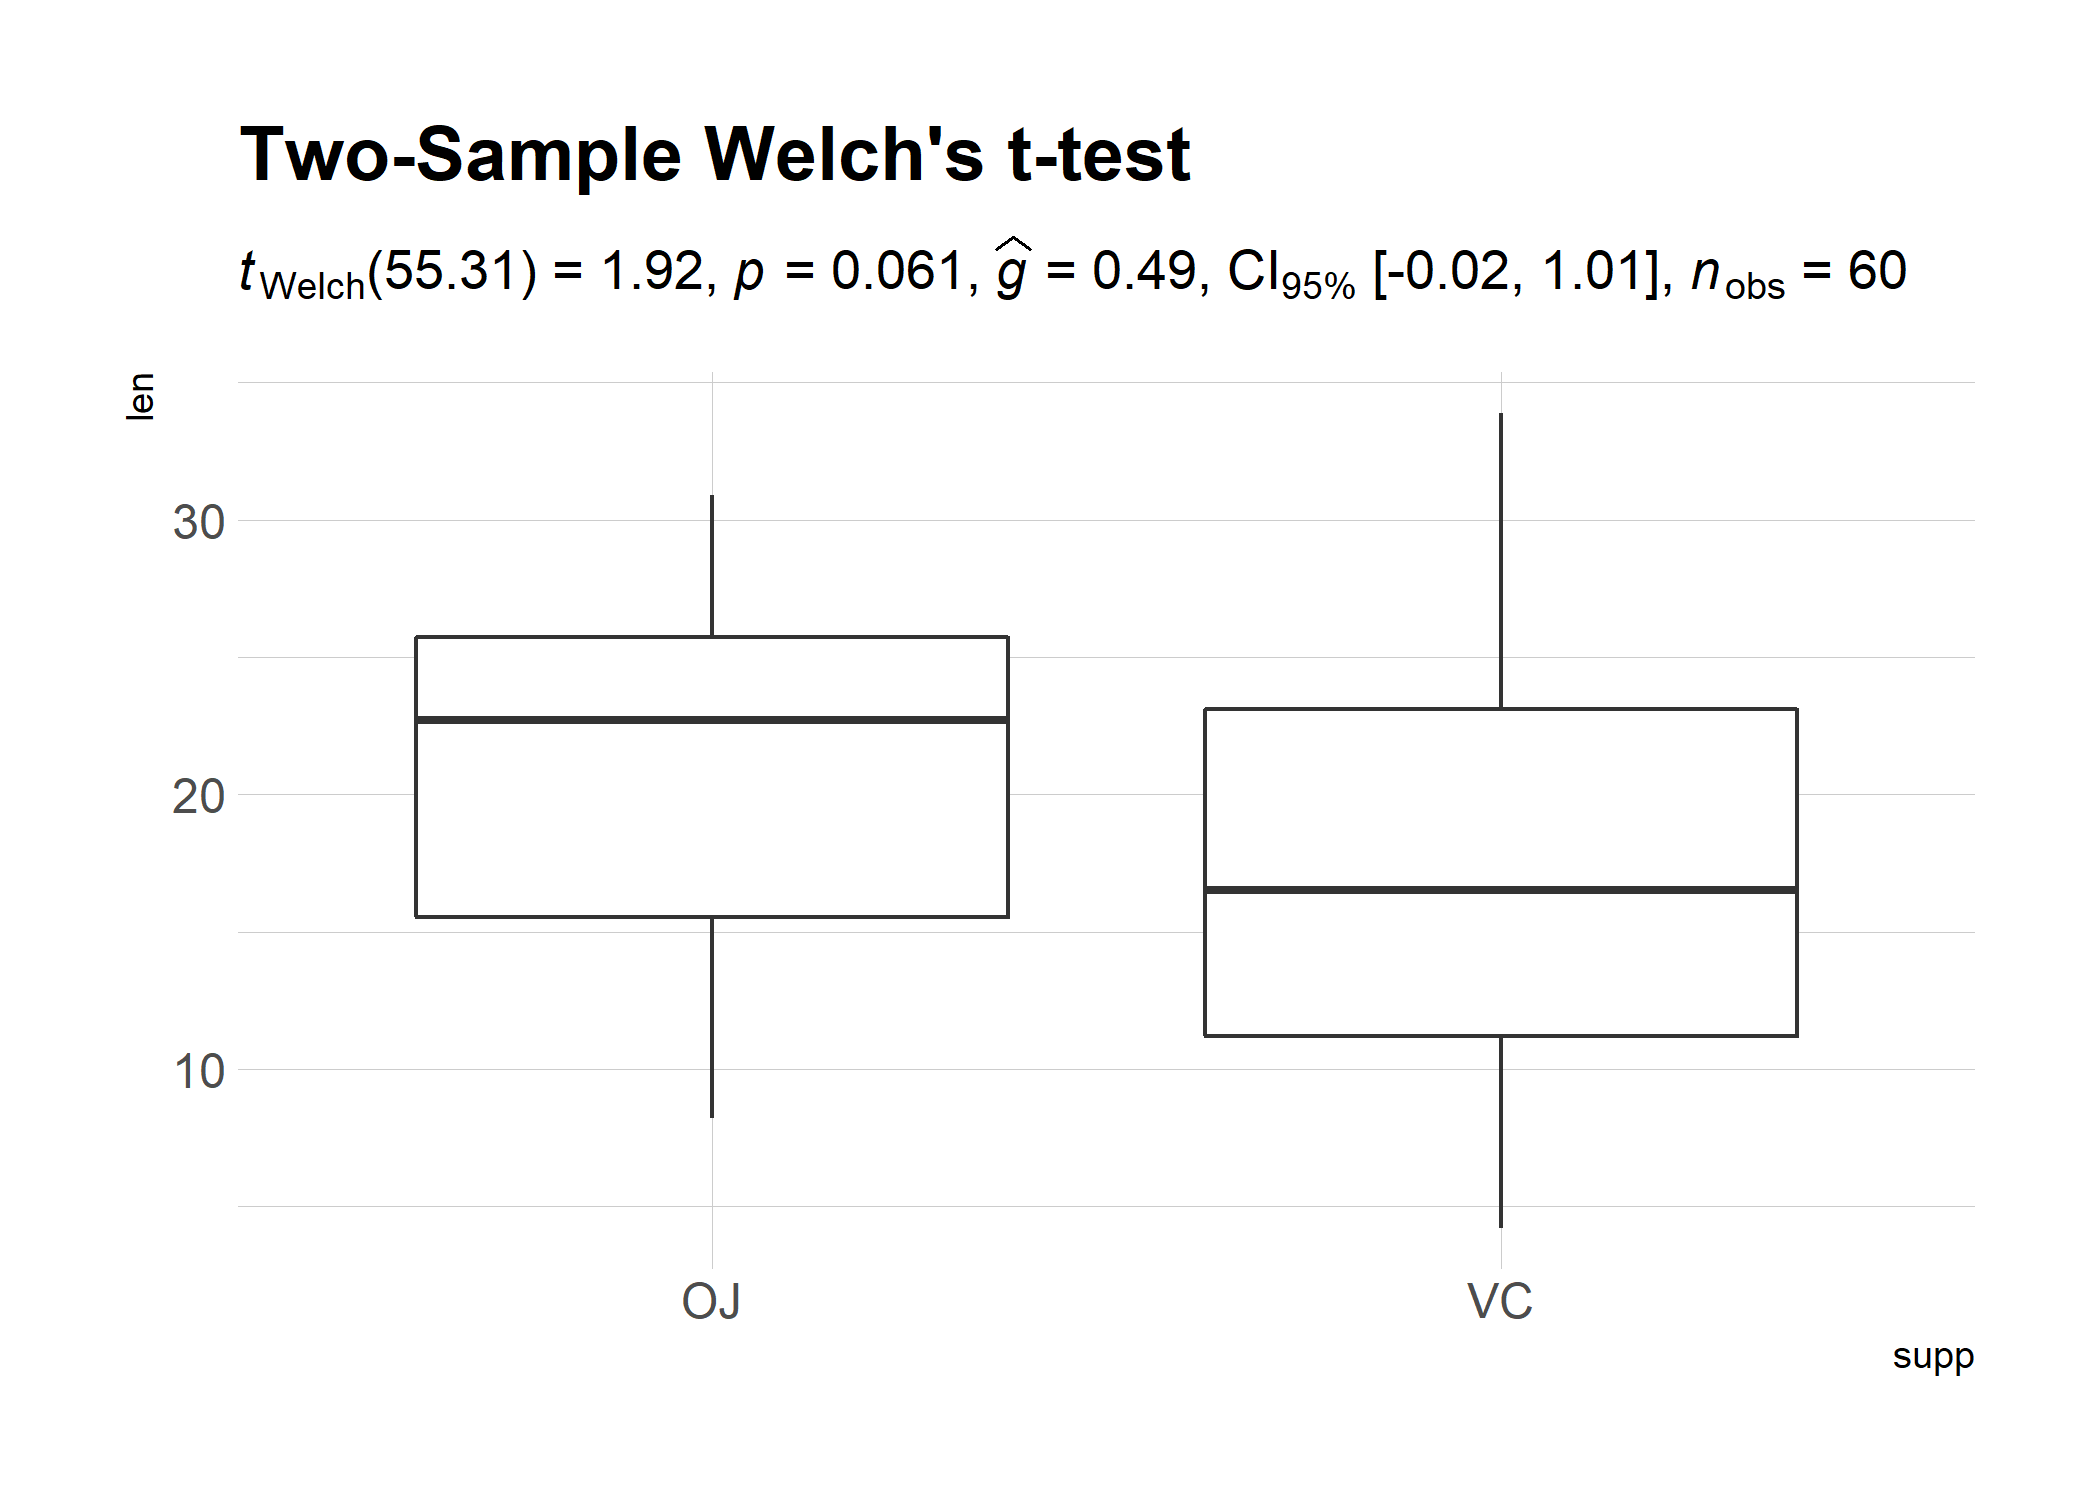
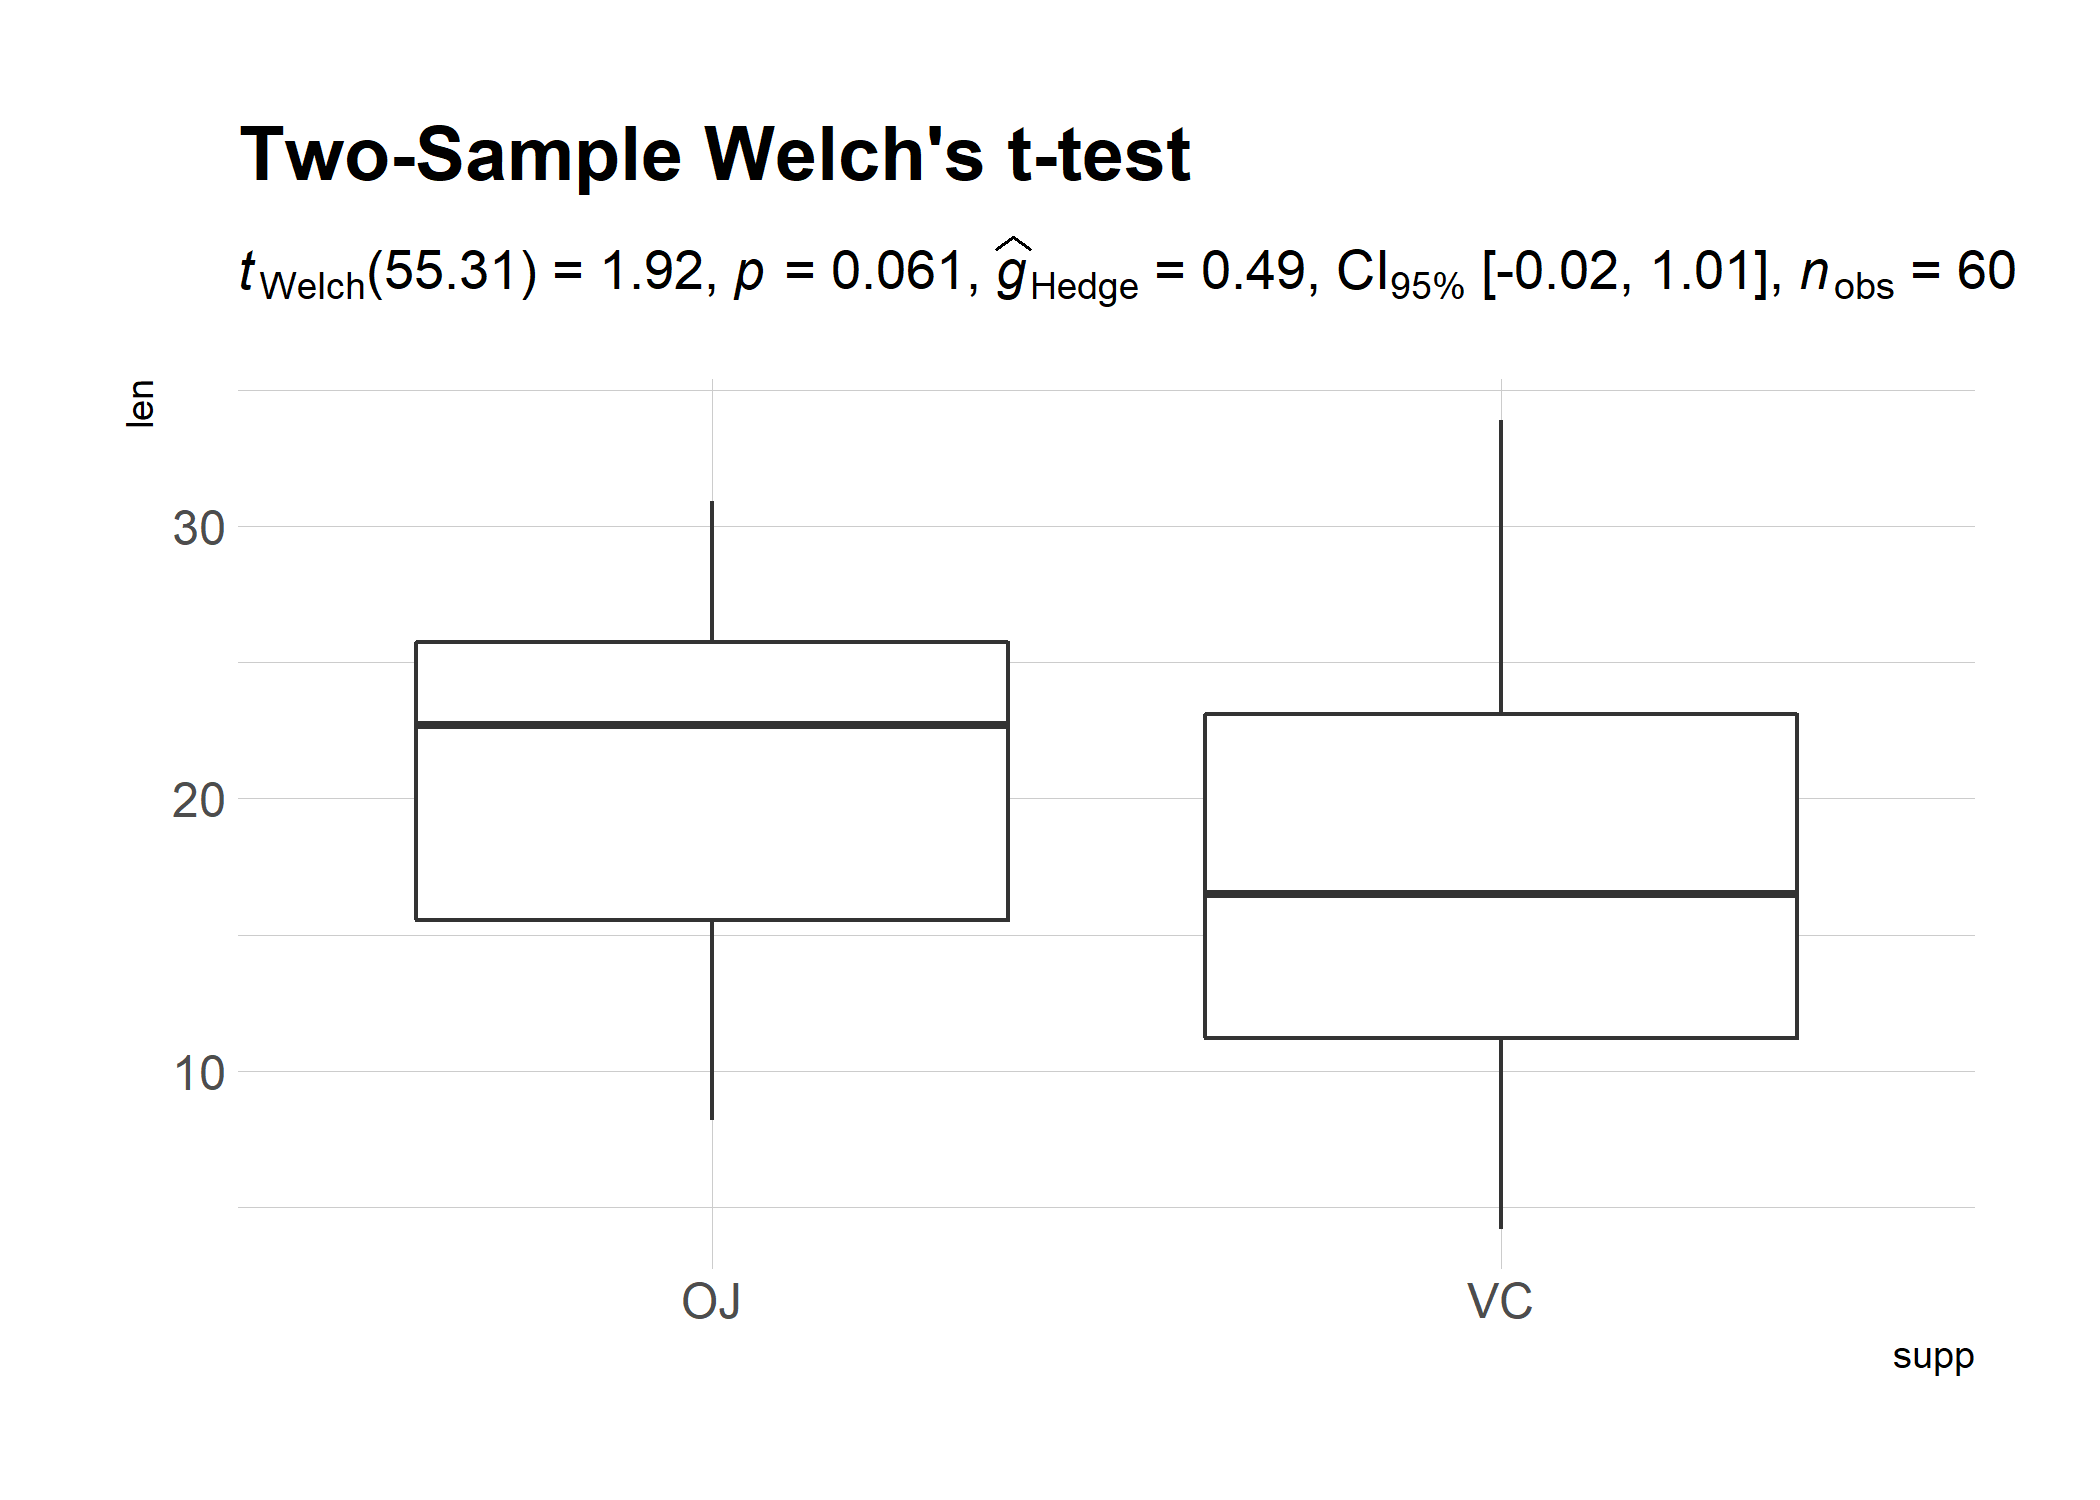
minor cleanup

diff --git a/docs/reference/expr_t_parametric.html b/docs/reference/expr_t_parametric.html
@@ -261,7 +261,7 @@ non-central Student-<em>t</em> distributions.</p>
   <span class='kw'>x</span> <span class='kw'>=</span> <span class='no'>vore</span>,
   <span class='kw'>y</span> <span class='kw'>=</span> <span class='no'>sleep_rem</span>
 )</div><div class='output co'>#&gt; paste(NULL, italic("t")["Welch"], "(", "10.89", ") = ", "1.49", 
-#&gt;     ", ", italic("p"), " = ", "0.164", ", ", widehat(italic("g")), 
+#&gt;     ", ", italic("p"), " = ", "0.164", ", ", widehat(italic("g"))["Hedge"], 
 #&gt;     " = ", "0.61", ", CI"["95%"], " [", "-0.18", ", ", "1.20", 
 #&gt;     "]", ", ", italic("n")["obs"], " = ", 34L)</div><div class='input'>
 <span class='co'># changing defaults (getting expression as output)</span>
@@ -272,7 +272,7 @@ non-central Student-<em>t</em> distributions.</p>
   <span class='kw'>var.equal</span> <span class='kw'>=</span> <span class='fl'>TRUE</span>,
   <span class='kw'>effsize.type</span> <span class='kw'>=</span> <span class='st'>"d"</span>
 )</div><div class='output co'>#&gt; paste(NULL, italic("t")["Student"], "(", "32", ") = ", "1.95", 
-#&gt;     ", ", italic("p"), " = ", "0.060", ", ", widehat(italic("d")), 
+#&gt;     ", ", italic("p"), " = ", "0.060", ", ", widehat(italic("d"))["Cohen"], 
 #&gt;     " = ", "0.73", ", CI"["95%"], " [", "-0.03", ", ", "1.40", 
 #&gt;     "]", ", ", italic("n")["obs"], " = ", 34L)</div><div class='input'># }
 </div></pre>

diff --git a/docs/index.html b/docs/index.html
@@ -133,7 +133,7 @@
 <td><a href="https://cran.r-project.org/"><img src="https://img.shields.io/badge/R%3E%3D-3.5.0-6666ff.svg" alt="minimal R version"></a></td>
 <td><a href="https://www.tidyverse.org/lifecycle/"><img src="https://img.shields.io/badge/lifecycle-maturing-blue.svg" alt="lifecycle"></a></td>
 <td><a href="https://CRAN.R-project.org/package=statsExpressions"><img src="https://cranlogs.r-pkg.org/badges/last-month/statsExpressions?color=blue" alt="Monthly downloads badge"></a></td>
-<td><a href="https://github.com/IndrajeetPatil/statsExpressions/issues"><img src="https://img.shields.io/badge/issues-8-red.svg" alt="Github Issues"></a></td>
+<td><a href="https://github.com/IndrajeetPatil/statsExpressions/issues"><img src="https://img.shields.io/badge/issues-9-red.svg" alt="Github Issues"></a></td>
 <td><a href="https://CRAN.R-project.org/package=statsExpressions/vignettes/"><img src="https://img.shields.io/badge/vignettes-0.3.1-orange.svg?colorB=FF5722" alt="vignettes"></a></td>
 </tr>
 <tr class="even">

diff --git a/docs/reference/expr_t_onesample.html b/docs/reference/expr_t_onesample.html
@@ -270,7 +270,7 @@ argument.</p>
   <span class='kw'>test.value</span> <span class='kw'>=</span> <span class='fl'>0.275</span>,
   <span class='kw'>type</span> <span class='kw'>=</span> <span class='st'>"parametric"</span>
 )</div><div class='output co'>#&gt; paste(NULL, italic("t")["Student"], "(", "55", ") = ", "0.05", 
-#&gt;     ", ", italic("p"), " = ", "0.960", ", ", widehat(italic("g")), 
+#&gt;     ", ", italic("p"), " = ", "0.960", ", ", widehat(italic("g"))["Hedge"], 
 #&gt;     " = ", "0.01", ", CI"["95%"], " [", "-0.25", ", ", "0.27", 
 #&gt;     "]", ", ", italic("n")["obs"], " = ", 56L)</div><div class='input'>
 <span class='co'># ----------------------- non-parametric -----------------------------------</span>

diff --git a/README.md b/README.md
@@ -7,7 +7,7 @@
 | ------------------------------------------------------------------------------------------------------------------------------------------------------------------------- | ------------------------------------------------------------------------------------------------------------------------------------------------------------------------------------------------------ | ---------------------------------------------------------------------------------------------------------------------------------------------------------------------------------- | ------------------------------------------------------------------------------------------------------------------------------------------------------------------------ | ------------------------------------------------------------------------------------------------------------------------------------------------------------------------- |
 | [![CRAN\_Release\_Badge](http://www.r-pkg.org/badges/version-ago/statsExpressions)](https://CRAN.R-project.org/package=statsExpressions)                                  | [![Build Status](https://travis-ci.org/IndrajeetPatil/statsExpressions.svg?branch=master)](https://travis-ci.org/IndrajeetPatil/statsExpressions)                                                      | [![Daily downloads badge](https://cranlogs.r-pkg.org/badges/last-day/statsExpressions?color=blue)](https://CRAN.R-project.org/package=statsExpressions)                            | [![GitHub version](https://img.shields.io/badge/GitHub-0.4.0.9000-orange.svg?style=flat-square)](https://github.com/IndrajeetPatil/statsExpressions/)                    | [![Website](https://img.shields.io/badge/website-statsExpressions-orange.svg?colorB=E91E63)](https://indrajeetpatil.github.io/statsExpressions/)                          |
 | [![CRAN Checks](https://cranchecks.info/badges/summary/statsExpressions)](https://cran.r-project.org/web/checks/check_results_statsExpressions.html)                      | [![AppVeyor Build Status](https://ci.appveyor.com/api/projects/status/github/IndrajeetPatil/statsExpressions?branch=master&svg=true)](https://ci.appveyor.com/project/IndrajeetPatil/statsExpressions) | [![Weekly downloads badge](https://cranlogs.r-pkg.org/badges/last-week/statsExpressions?color=blue)](https://CRAN.R-project.org/package=statsExpressions)                          | [![Forks](https://img.shields.io/badge/forks-4-blue.svg)](https://github.com/IndrajeetPatil/statsExpressions/)                                                           | [![Features](https://img.shields.io/badge/features-statsExpressions-orange.svg?colorB=2196F3)](https://indrajeetpatil.github.io/statsExpressions/reference/index.html)    |
-| [![minimal R version](https://img.shields.io/badge/R%3E%3D-3.5.0-6666ff.svg)](https://cran.r-project.org/)                                                                | [![lifecycle](https://img.shields.io/badge/lifecycle-maturing-blue.svg)](https://www.tidyverse.org/lifecycle/)                                                                                         | [![Monthly downloads badge](https://cranlogs.r-pkg.org/badges/last-month/statsExpressions?color=blue)](https://CRAN.R-project.org/package=statsExpressions)                        | [![Github Issues](https://img.shields.io/badge/issues-8-red.svg)](https://github.com/IndrajeetPatil/statsExpressions/issues)                                             | [![vignettes](https://img.shields.io/badge/vignettes-0.3.1-orange.svg?colorB=FF5722)](https://CRAN.R-project.org/package=statsExpressions/vignettes/)                     |
+| [![minimal R version](https://img.shields.io/badge/R%3E%3D-3.5.0-6666ff.svg)](https://cran.r-project.org/)                                                                | [![lifecycle](https://img.shields.io/badge/lifecycle-maturing-blue.svg)](https://www.tidyverse.org/lifecycle/)                                                                                         | [![Monthly downloads badge](https://cranlogs.r-pkg.org/badges/last-month/statsExpressions?color=blue)](https://CRAN.R-project.org/package=statsExpressions)                        | [![Github Issues](https://img.shields.io/badge/issues-9-red.svg)](https://github.com/IndrajeetPatil/statsExpressions/issues)                                             | [![vignettes](https://img.shields.io/badge/vignettes-0.3.1-orange.svg?colorB=FF5722)](https://CRAN.R-project.org/package=statsExpressions/vignettes/)                     |
 | [![GitHub code size in bytes](https://img.shields.io/github/languages/code-size/IndrajeetPatil/statsExpressions.svg)](https://github.com/IndrajeetPatil/statsExpressions) | [![Coverage Status](https://coveralls.io/repos/github/IndrajeetPatil/statsExpressions/badge.svg?branch=master)](https://coveralls.io/github/IndrajeetPatil/statsExpressions?branch=master)             | [![Total downloads badge](https://cranlogs.r-pkg.org/badges/grand-total/statsExpressions?color=blue)](https://CRAN.R-project.org/package=statsExpressions)                         | [![Github Stars](https://img.shields.io/github/stars/IndrajeetPatil/statsExpressions.svg?style=social&label=Github)](https://github.com/IndrajeetPatil/statsExpressions) | [![DOI](https://zenodo.org/badge/DOI/10.5281/zenodo.2074621.svg)](https://doi.org/10.5281/zenodo.3386122)                                                                 |
 | [![Licence](https://img.shields.io/badge/licence-GPL--3-blue.svg)](https://www.gnu.org/licenses/gpl-3.0.en.html)                                                          | [![Codecov test coverage](https://codecov.io/gh/IndrajeetPatil/statsExpressions/branch/master/graph/badge.svg)](https://codecov.io/gh/IndrajeetPatil/statsExpressions?branch=master)                   | [![Covrpage Summary](https://img.shields.io/badge/covrpage-Last_Build_2020_03_22-yellowgreen.svg)](https://github.com/IndrajeetPatil/statsExpressions/blob/master/tests/README.md) | [![Last-changedate](https://img.shields.io/badge/last%20change-2020--03--28-yellowgreen.svg)](https://github.com/IndrajeetPatil/statsExpressions/commits/master)         | [![GitHub last commit](https://img.shields.io/github/last-commit/IndrajeetPatil/statsExpressions.svg)](https://github.com/IndrajeetPatil/statsExpressions/commits/master) |
 | [![status](https://tinyverse.netlify.com/badge/statsExpressions)](https://CRAN.R-project.org/package=statsExpressions)                                                    | [![R build status](https://github.com/IndrajeetPatil/statsExpressions/workflows/R-CMD-check/badge.svg)](https://github.com/IndrajeetPatil/statsExpressions)                                            | [![Gitter chat](https://badges.gitter.im/gitterHQ/gitter.png)](https://gitter.im/statsExpressions/community)                                                                       | [![Project Status](http://www.repostatus.org/badges/latest/active.svg)](http://www.repostatus.org/#active)                                                               | [![contributions welcome](https://img.shields.io/badge/contributions-welcome-brightgreen.svg?style=flat)](https://github.com/IndrajeetPatil/statsExpressions/issues)      |
